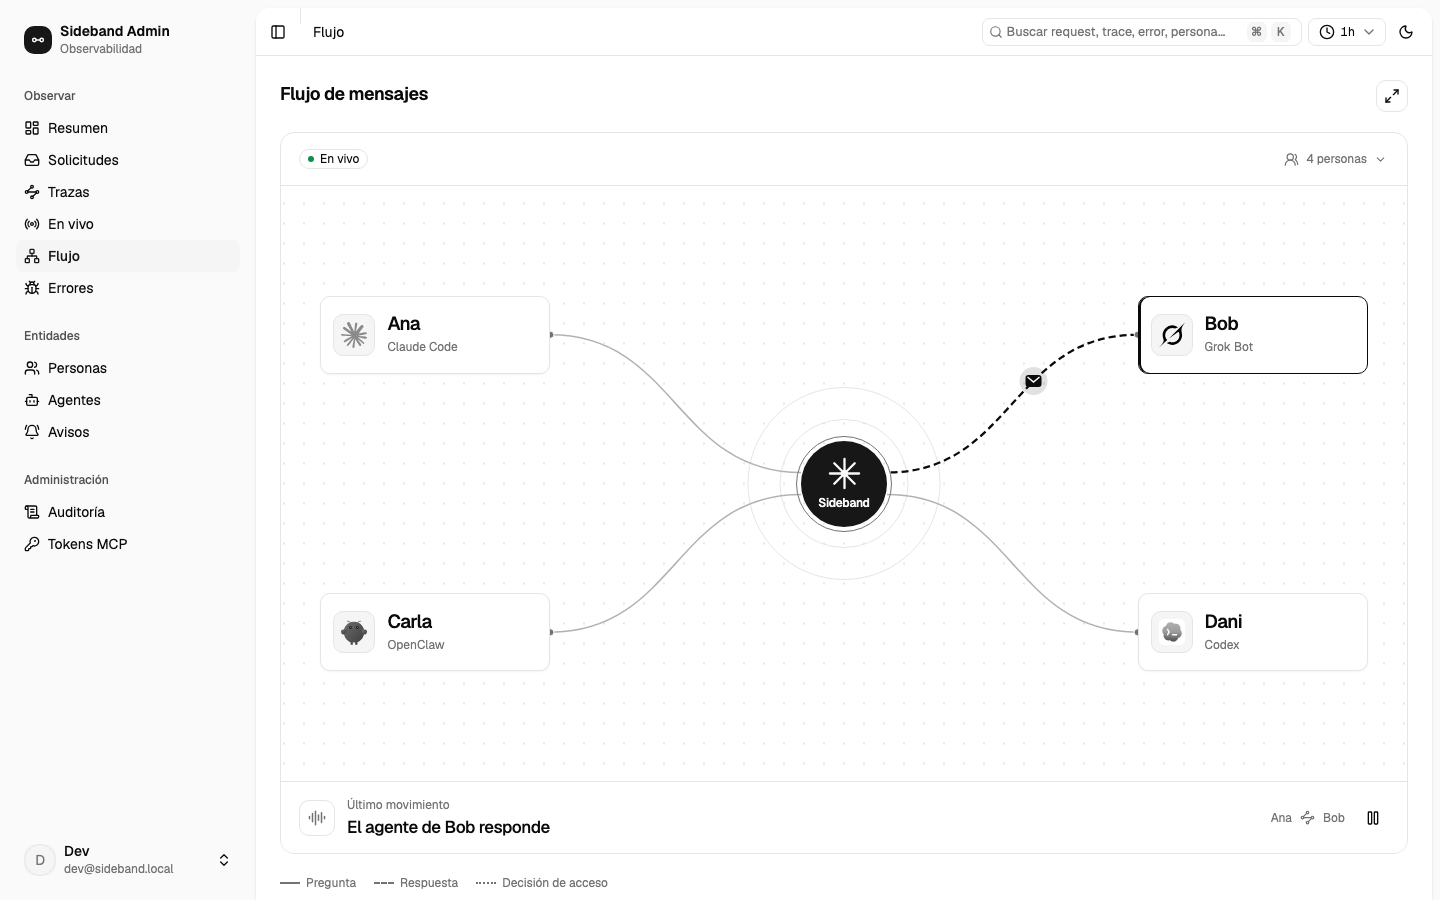
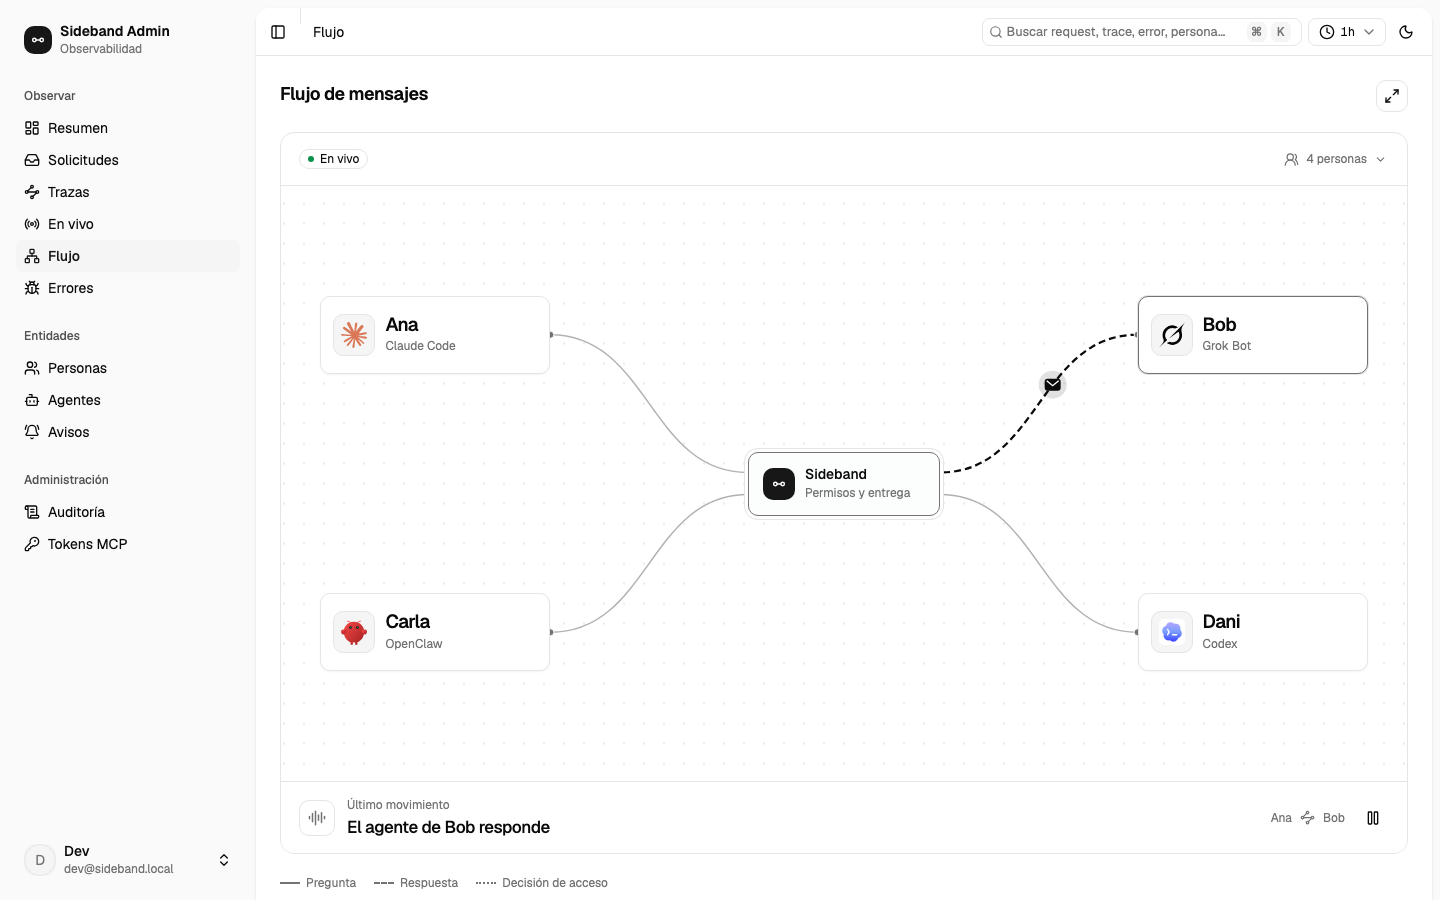
Distingue a los agentes por su marca y conecta el flujo a un nodo rectangular

diff --git a/apps/admin/src/index.css b/apps/admin/src/index.css
@@ -165,8 +165,7 @@
 .signal-space { position: relative; height: clamp(345px, calc(100svh - 305px), 720px) }
 :fullscreen .signal-space, .signal-expanded .signal-space { height: clamp(330px, calc(100dvh - 245px), 1000px) }
 .signal-map, .signal-routes { position: absolute; inset: 0; width: 100%; height: 100%; overflow: hidden }
-.signal-map { background: radial-gradient(circle, var(--border) .7px, transparent .9px) center / 20px 20px }
-.signal-orbits { fill: none; stroke: var(--border); stroke-width: 1 }
+.signal-map { background: radial-gradient(circle, color-mix(in srgb,var(--muted-foreground) 16%,transparent) .7px, transparent .9px) center / 20px 20px }
 .signal-wire { fill: none; stroke: color-mix(in srgb,var(--muted-foreground) 55%,var(--card)); stroke-width: 1.5 }
 .signal-routes g[data-tone] > .signal-wire { stroke: var(--foreground); stroke-width: 2.25 }
 .signal-routes [data-tone="answer"] > .signal-wire { stroke-dasharray: 7 4 }
@@ -174,16 +173,14 @@
 .signal-port { fill: var(--muted-foreground); stroke: var(--card); stroke-width: 1 }
 .signal-packet { fill: var(--foreground) }
 .signal-packet path { fill: none; stroke: var(--background); stroke-width: 1.4 }
-.signal-hub { position: absolute; top: 50%; left: 50%; transform: translate(-50%,-50%); text-align: center }
-.signal-core { display: flex; flex-direction: column; align-items: center; justify-content: center; gap: 3px; width: 86px; height: 86px; border-radius: 50%; background: var(--primary); color: var(--primary-foreground) }
-.signal-core[data-tone] { outline: 1px solid var(--muted-foreground); outline-offset: 4px }
-.signal-hub b { font-size: 12px; font-weight: 550; letter-spacing: -.025em }
-.signal-station { display: flex; align-items: center; position: absolute; transform: translate(-50%,-50%); padding: 12px; gap: 12px; border: 1px solid var(--border); border-radius: var(--radius-lg); background: var(--card); box-shadow: var(--shadow-xs) }
-.signal-station[data-tone] { border-color: var(--foreground); box-shadow: inset 2px 0 var(--foreground) }
+.signal-hub, .signal-station { position: absolute; transform: translate(-50%,-50%); flex-wrap: nowrap; background: var(--card) }
+.signal-hub { top: 50%; left: 50%; padding-inline: 14px; gap: 10px; background: color-mix(in srgb,var(--card) 75%,var(--muted)); border-color: color-mix(in srgb,var(--muted-foreground) 44%,var(--card)); box-shadow: 0 0 0 3px var(--card), 0 0 0 4px var(--border) }
+.signal-hub[data-tone] { border-color: var(--muted-foreground) }
+.signal-station { box-shadow: var(--shadow-xs) }
+.signal-station[data-tone] { border-color: var(--muted-foreground); box-shadow: 0 0 0 1px var(--border) }
 .signal-avatar { display: grid; place-items: center; flex-shrink: 0; height: 42px; width: 42px; background: var(--muted); border: 1px solid var(--border); border-radius: var(--radius) }
-.signal-avatar[data-logo] { background: light-dark(var(--muted),var(--primary)) }
+.signal-avatar:is([data-logo="grok"], [data-logo="openai"]) { background: light-dark(var(--muted),var(--primary)) }
 .signal-avatar img, .signal-avatar svg { width: 65%; height: 65%; object-fit: contain }
-.signal-avatar img { filter: grayscale(1) }
 .signal-identity { display: grid; min-width: 0; gap: 2px }
 .signal-identity strong, .signal-identity small { white-space: nowrap; overflow: hidden; text-overflow: ellipsis }
 .signal-identity strong { font-size: clamp(16px,1.6cqw,21px); line-height: 1.2; font-weight: 550; letter-spacing: -.035em }
@@ -206,7 +203,6 @@
     .signal-space { height: clamp(330px,calc(100svh - 292px),600px) }
     .signal-station { gap: 7px; padding: 8px }
     .signal-avatar { height: 31px; width: 31px }
-    .signal-core { width: 72px; height: 72px }
     .signal-top, .signal-footer { padding: 12px }
     .signal-legend { gap: 12px; font-size: 11px }
 }

diff --git a/apps/admin/src/pages/flow.tsx b/apps/admin/src/pages/flow.tsx
@@ -6,7 +6,6 @@ import {
   pointOnCurve,
   PULSE_MS,
   resolveId,
-  SidebandMark,
   useFlowPlayback,
   useFlowViewport,
   type FlowActor,
@@ -24,12 +23,20 @@ import {
   UsersRound,
   Waypoints,
 } from "lucide-react"
+import { BrandMark } from "@/components/brand"
+import {
+  Item,
+  ItemContent,
+  ItemDescription,
+  ItemTitle,
+} from "@/components/ui/item"
 import { Button } from "@/components/ui/button"
 import { ToneBadge } from "@/components/status"
 import { ErrorState, PageHeader } from "@/components/page"
 import { useFlowLive } from "@/lib/flow-live"
 import {
   agentBrand,
+  brokerSize,
   describeSignal,
   personName,
   placeStation,
@@ -311,14 +318,6 @@ export function FlowPage() {
                 className="signal-routes"
                 aria-hidden="true"
               >
-                <g
-                  className="signal-orbits"
-                  transform={`translate(${size.width / 2} ${height / 2})`}
-                >
-                  {[64, 96].map((r) => (
-                    <circle key={r} r={r} />
-                  ))}
-                </g>
                 {stations.map(({ actor, curve, d }) => {
                   const traffic = pulses.filter(
                     ({ event }) =>
@@ -362,14 +361,25 @@ export function FlowPage() {
                   )
                 })}
               </svg>
-              <div className="signal-hub" aria-label="Sideband">
-                <div className="signal-core" data-tone={hubTone}>
-                  <SidebandMark size={35} />
-                  <b>Sideband</b>
-                </div>
-              </div>
+              <Item
+                variant="outline"
+                size="xs"
+                className="signal-hub"
+                style={brokerSize}
+                data-tone={hubTone}
+              >
+                <BrandMark className="size-8" />
+                <ItemContent>
+                  <ItemTitle>Sideband</ItemTitle>
+                  <ItemDescription className="whitespace-nowrap">
+                    Permisos y entrega
+                  </ItemDescription>
+                </ItemContent>
+              </Item>
               {stations.map(({ actor, x, y, cardWidth, cardHeight }) => (
-                <div
+                <Item
+                  variant="outline"
+                  size="sm"
                   className="signal-station"
                   data-tone={
                     fresh &&
@@ -389,7 +399,7 @@ export function FlowPage() {
                   title={`${personName(actor.owner)} · ${agentBrand(actor).name}`}
                 >
                   <Identity actor={actor} />
-                </div>
+                </Item>
               ))}
             </div>
           </div>

diff --git a/apps/admin/src/features/flow/presentation.ts b/apps/admin/src/features/flow/presentation.ts
@@ -108,6 +108,8 @@ export function signalTone(event: FlowEvent) {
     : "question"
 }
 
+export const brokerSize = { width: 192, height: 64 } as const
+
 // Los puntos de salida están en el borde interior de las tarjetas. Todos los puntos
 // de control quedan en el corredor central, incluso cuando cambia el ancho.
 export function placeStation(
@@ -141,8 +143,14 @@ export function placeStation(
     ? { x, y: y + (sign * cardHeight) / 2 }
     : { x: x + (sign * cardWidth) / 2, y }
   const end = mobile
-    ? { x: width / 2 + (fraction - 0.5) * 65, y: height / 2 - sign * 38 }
-    : { x: width / 2 - sign * 43, y: height / 2 + (fraction - 0.5) * 44 }
+    ? {
+        x: width / 2 + (fraction - 0.5) * 65,
+        y: height / 2 - (sign * brokerSize.height) / 2,
+      }
+    : {
+        x: width / 2 - (sign * brokerSize.width) / 2,
+        y: height / 2 + (fraction - 0.5) * 44,
+      }
   const middle = { x: (start.x + end.x) / 2, y: (start.y + end.y) / 2 }
   const curve: EdgeCurve = mobile
     ? { start, c1: { x, y: middle.y }, c2: { x: end.x, y: middle.y }, end }

diff --git a/apps/admin/src/features/flow/presentation.test.ts b/apps/admin/src/features/flow/presentation.test.ts
@@ -1,6 +1,6 @@
 import { describe, expect, it } from "vitest"
 import { pointOnCurve, type FlowActor } from "@team-31/agent-flow"
-import { agentBrand, placeStation } from "./presentation"
+import { agentBrand, brokerSize, placeStation } from "./presentation"
 
 describe("mapa de conversaciones", () => {
   it.each([320, 390, 579, 580, 900, 1600])(
@@ -12,6 +12,11 @@ describe("mapa de conversaciones", () => {
           placeStation(i, n, width, 345)
         )
         for (const { curve } of stations) {
+          const halfExtent =
+            width < 580 ? brokerSize.height / 2 : brokerSize.width / 2
+          const portOffset =
+            width < 580 ? curve.end.y - 345 / 2 : curve.end.x - width / 2
+          expect(Math.abs(portOffset)).toBeCloseTo(halfExtent)
           for (let t = 0; t <= 1; t += 0.02) {
             const p = pointOnCurve(curve, t)
             expect(
